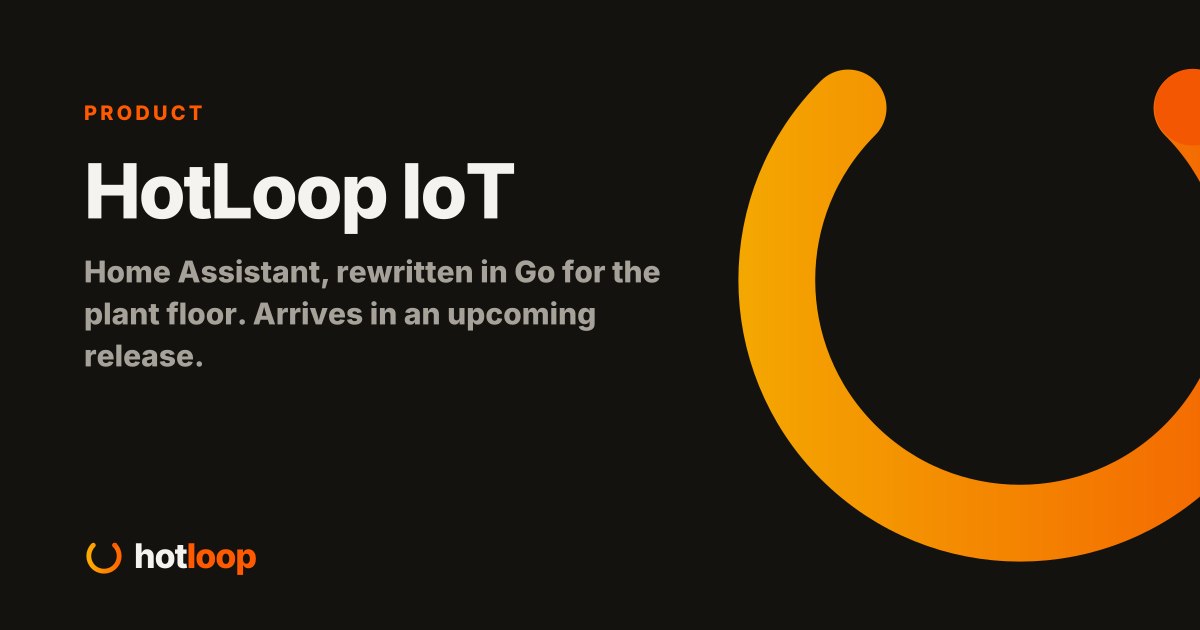
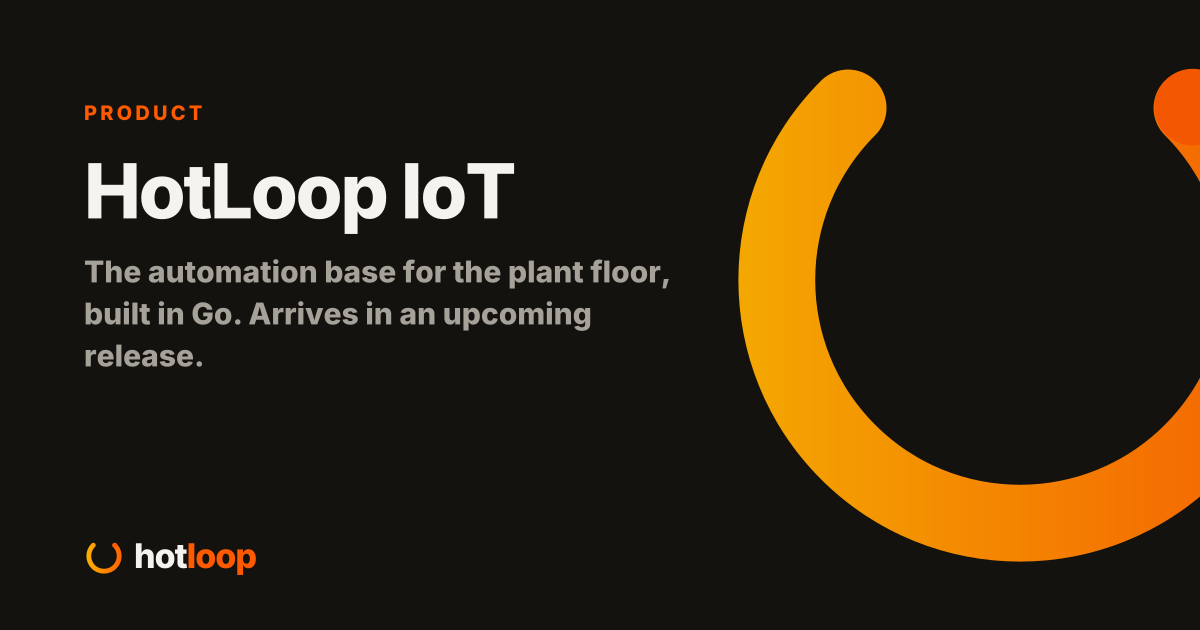
IoT: say what it is, not whose it looks like (#7)
IoT is the automation base for the plant floor. That's the pitch now: entities, automations, helpers, scripts, the logbook, dashboards, notifications, MCP and discovery, in Go. No more measuring it against somebody else's product. Same features, new words, new OG card.

Changed region(s): [[0.0617, 0.3921, 0.555, 0.4524], [0.0925, 0.4825, 0.4933, 0.5429]]

diff --git a/src/lib/products.ts b/src/lib/products.ts
@@ -46,7 +46,7 @@ export const PRODUCTS: Product[] = [
     id: 'iot',
     name: 'HotLoop IoT',
     href: '/iot/',
-    tagline: 'Home Assistant, rewritten in Go for OT.',
+    tagline: 'The automation base, built in Go for OT.',
     summary:
       'The base everything else is built on: entities, automations, helpers, scripts, the logbook, dashboards, notifications, MCP, and MQTT with discovery, plus every protocol driver HotLoop has.',
     installable: false,
@@ -106,7 +106,7 @@ export const IOT_FEATURES: Feature[] = [
   { name: 'Entities and the equipment tree', status: 'released', note: 'Every tag is an entity with an id that never changes, on one ISA-95 tree. A motor is one entity built from the tags it really is.' },
   { name: 'Automations', status: 'released', note: 'Ten trigger types, entity state triggers included, compiled when you save the rule so a broken one is caught in the editor.' },
   { name: 'The automation language', status: 'main', note: 'Condition, wait and stop steps inside a sequence, and forSec on a state trigger, for "the pump has been on for five minutes".' },
-  { name: 'Helpers', status: 'main', note: 'The seven Home Assistant input helpers: toggles, numbers, selects, text, counters, timers and schedules. Kept across restarts, never clamped.' },
+  { name: 'Helpers', status: 'main', note: 'Seven kinds of value the plant owns: toggles, numbers, selects, text, counters, timers and schedules. Kept across restarts, never clamped.' },
   { name: 'Logbook', status: 'main', note: 'One timeline of state changes, writes, alarms, automation runs and config changes, for the plant, one area, or one entity.' },
   { name: 'Scripts', status: 'main', note: 'Write the CIP cycle once, give it a name, and run it from a rule, the Scripts screen, MCP or its own entity. Typed fields, and a dry run through the real gate.' },
   { name: 'Recipes and blueprints', status: 'planned', note: 'Scenes as recipes: a set of setpoints captured and applied together, audited. Then reusable automation templates.' },
